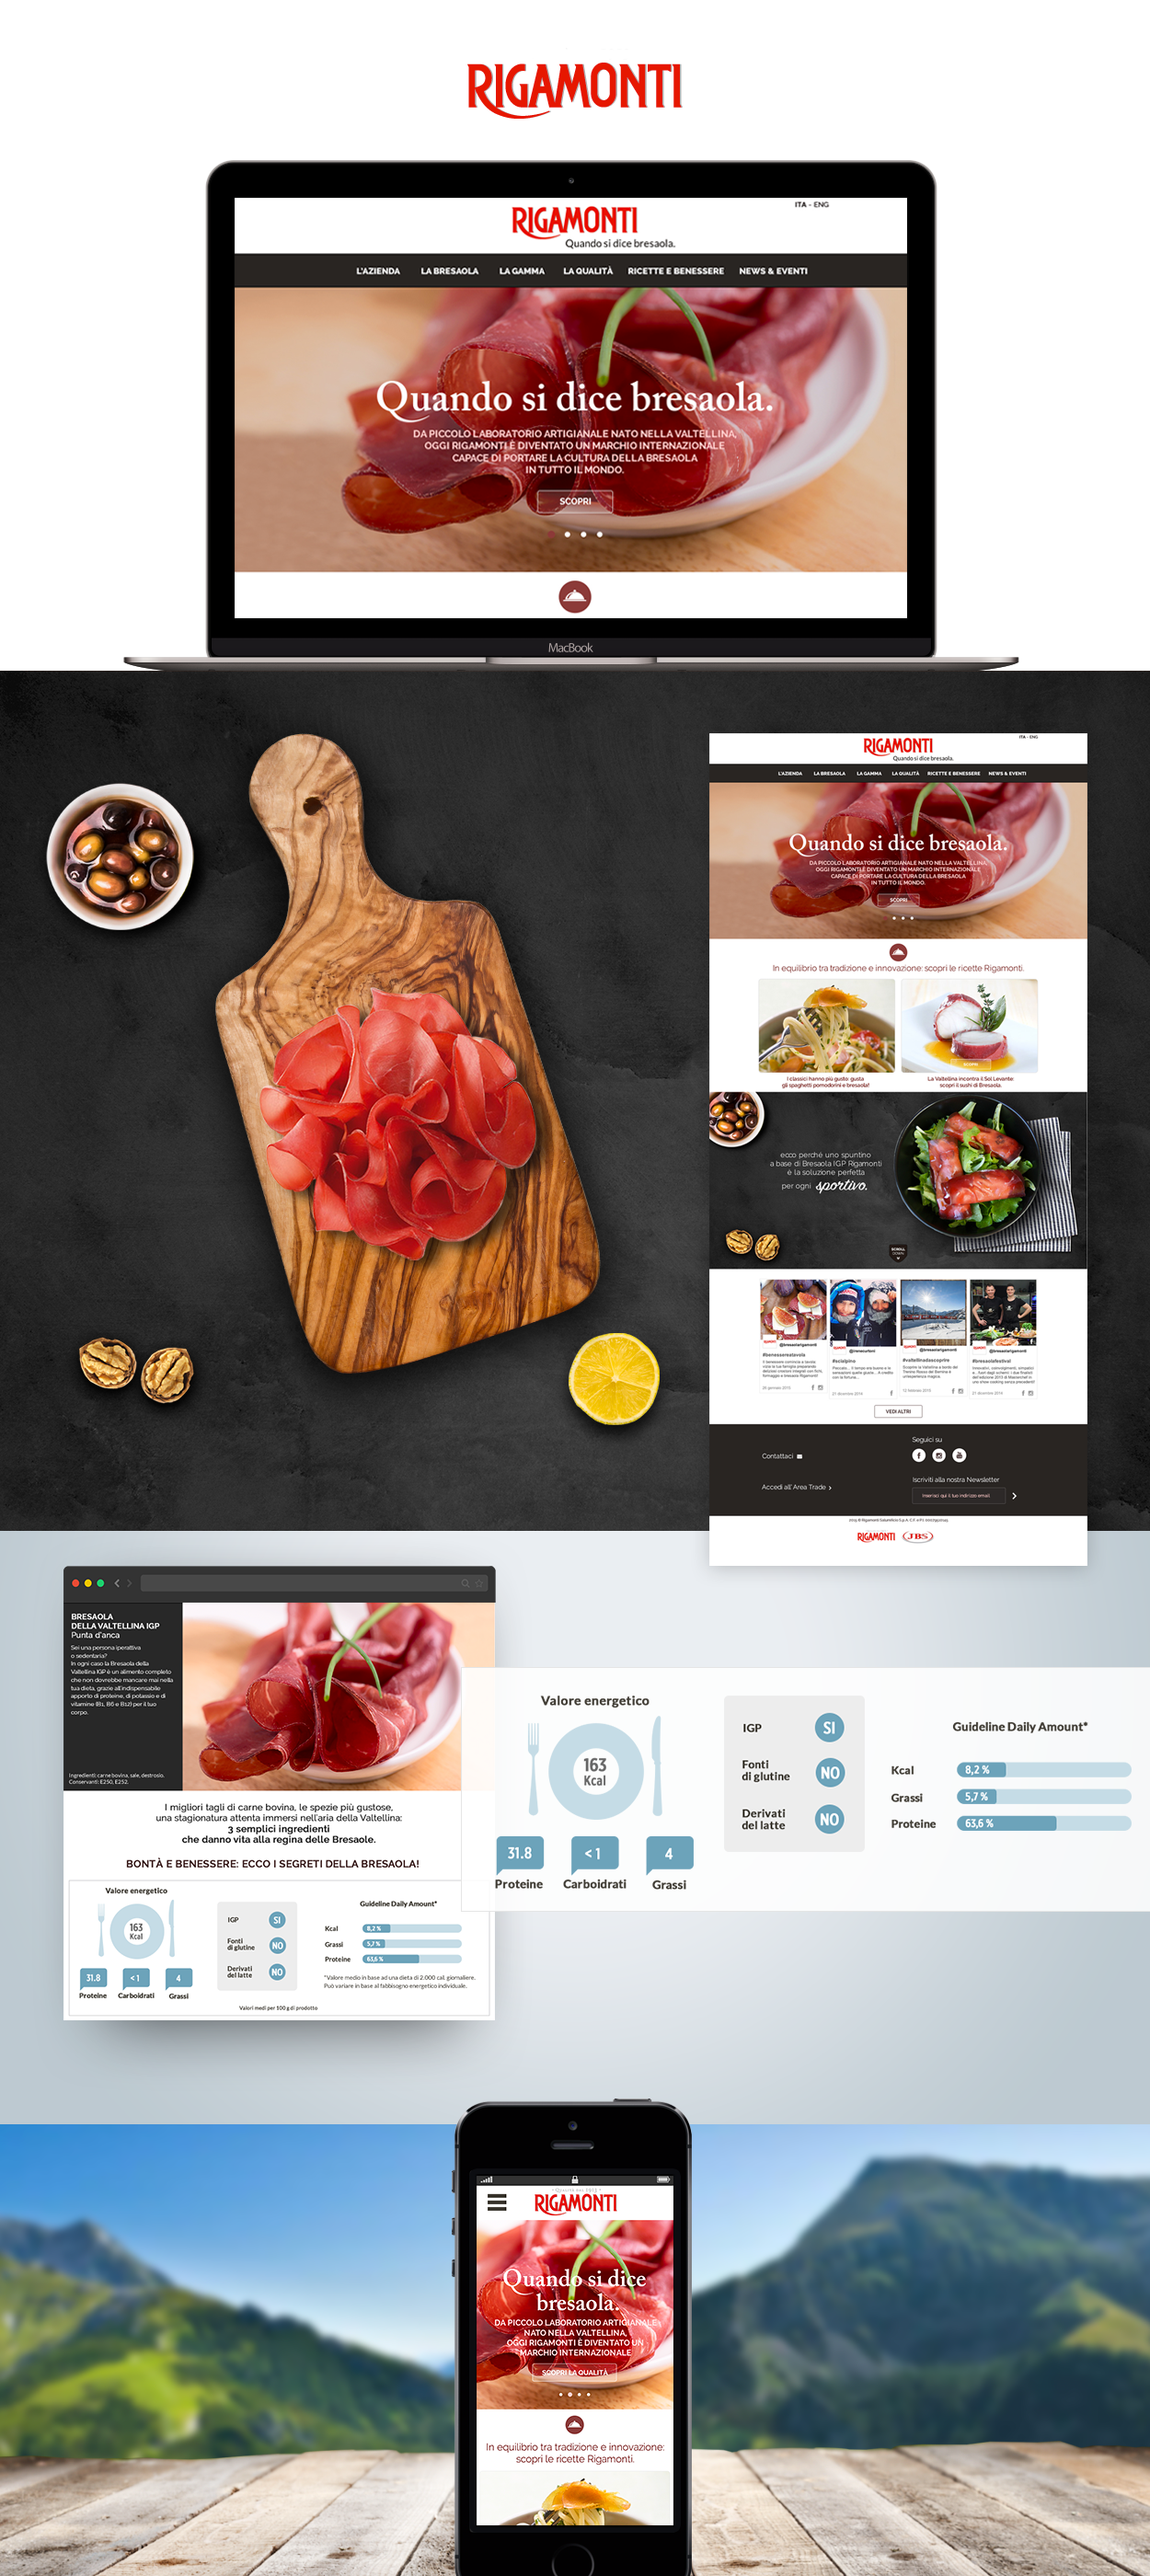
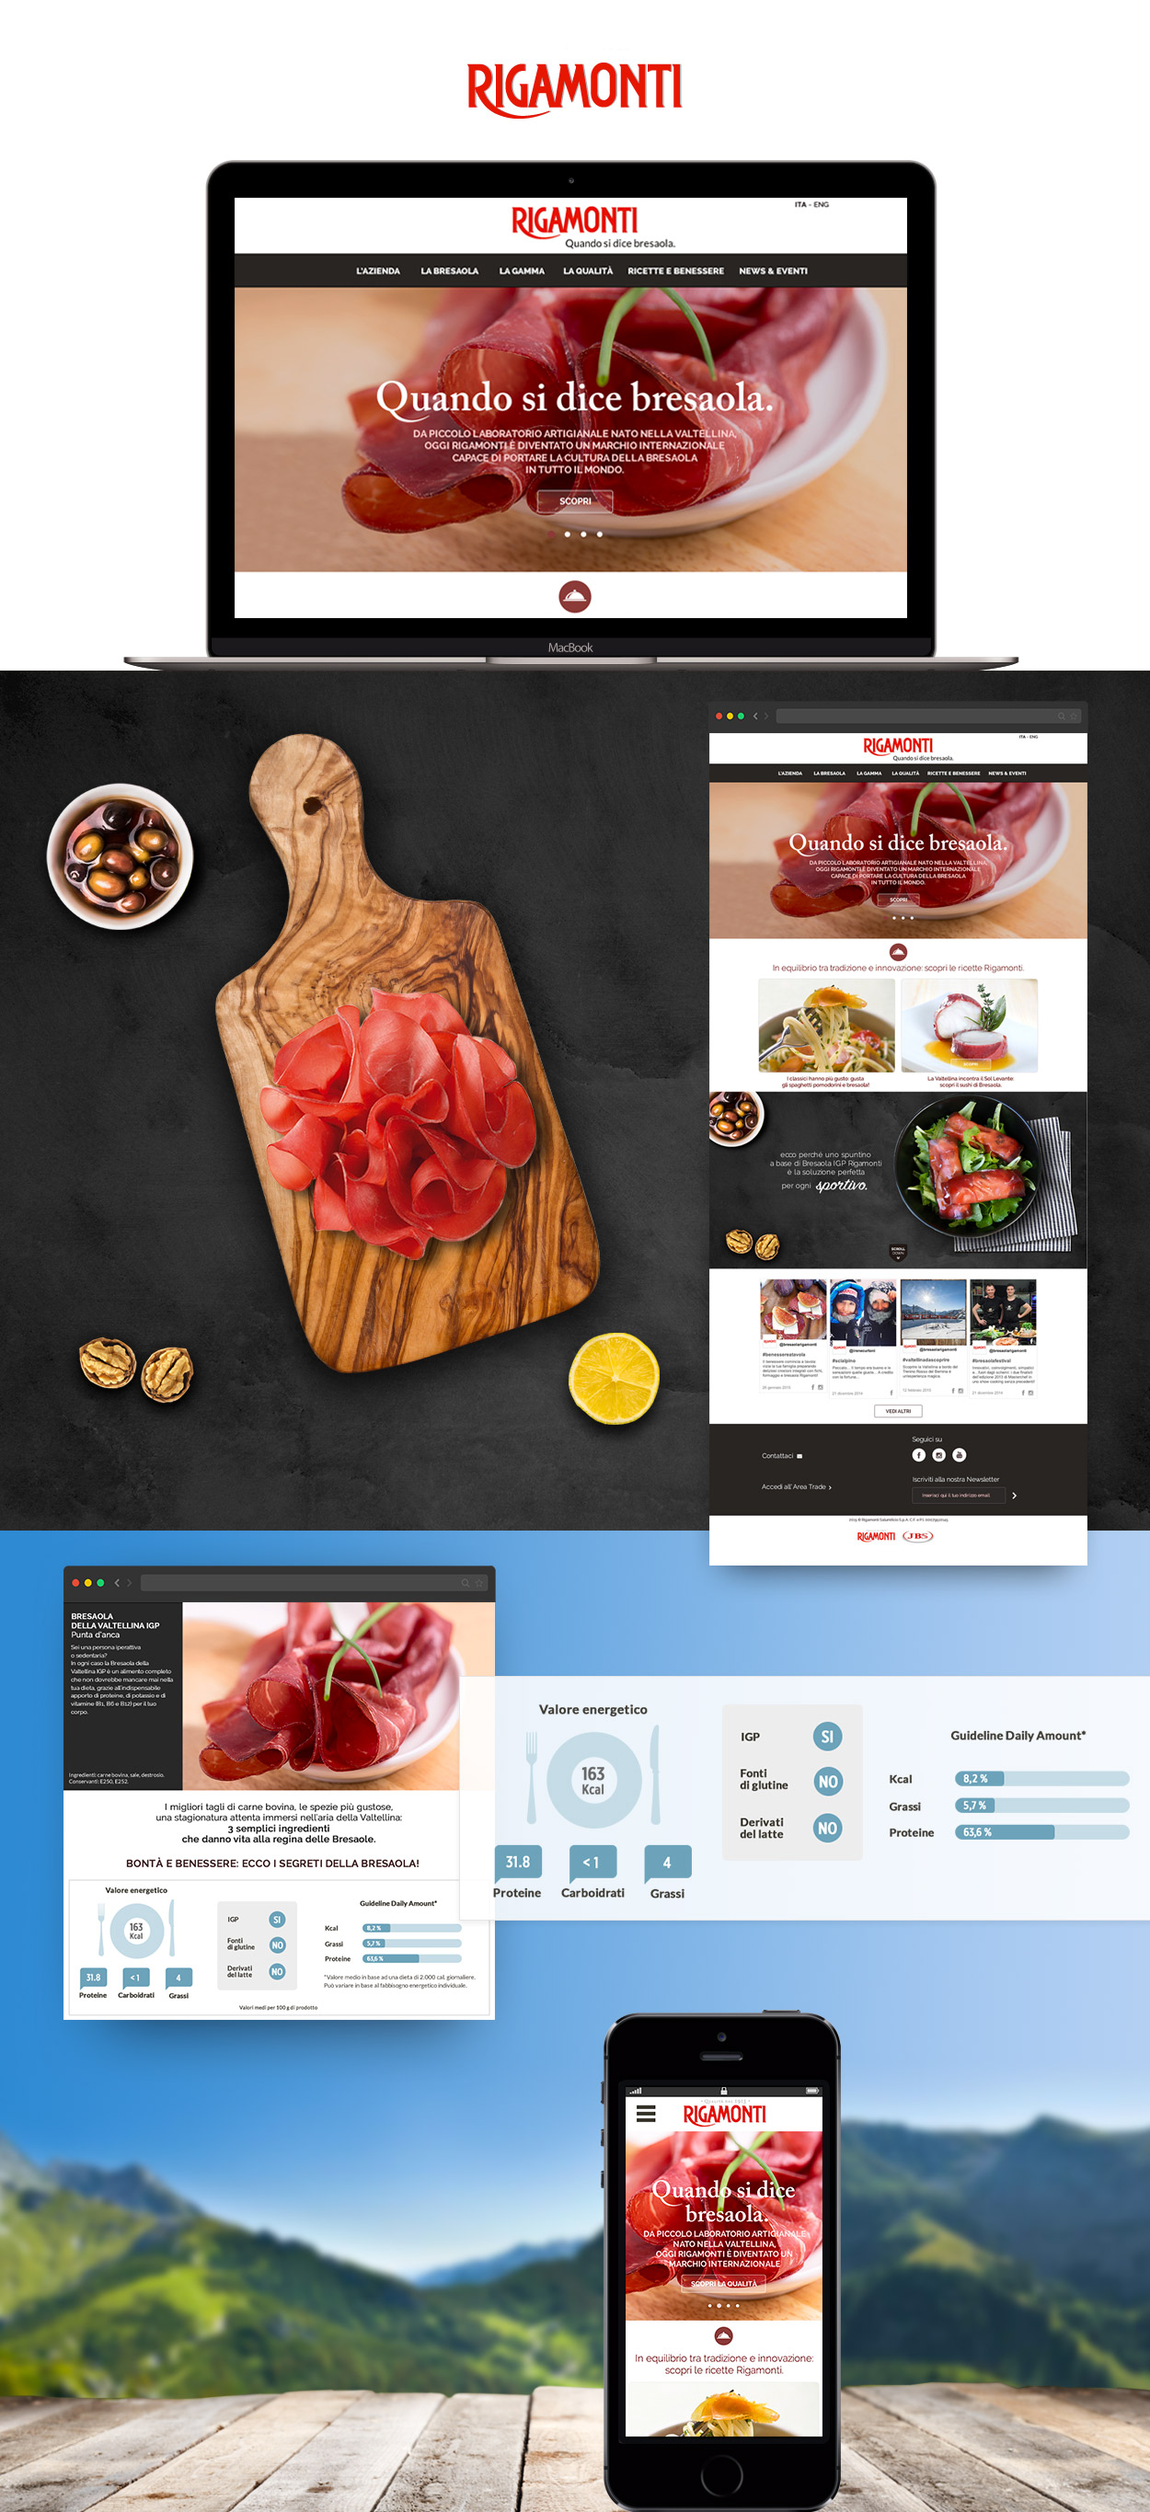
fix pag bresaola

diff --git a/public/play/portfolio-single-bresaola.html b/public/play/portfolio-single-bresaola.html
@@ -170,35 +170,10 @@
 
 				<!-- PORTFOLIO CONTENT -->
 				<div class="row">
-						<!-- PORTFOLIO slider -->
-					<div class="col-sm-12">
 
-						<div class="owl-carousel slider-images  m-b-30">
-
-							<div class="item">
-								<img src="assets/images/portfolio-single/RIGA-LAY2015-SLIDER-01.jpg" alt="" />
+							<div class="image-caption  m-b-30"><br>
+								<img class="image-border" src="assets/images/portfolio-single/portfolio-bresaola.jpg" alt="">
 							</div>
-
-							<div class="item">
-								<img src="assets/images/portfolio-single/RIGA-LAY2015-SLIDER-02.jpg" alt="" />
-							</div>
-
-							<div class="item">
-								<img src="assets/images/portfolio-single/RIGA-LAY2015-SLIDER-03.jpg" alt="" />
-							</div>
-
-							<div class="item">
-								<img src="assets/images/portfolio-single/RIGA-LAY2015-SLIDER-04.jpg" alt="" />
-							</div>
-						</div>
-						<hr class="divider m-b-30">
-					</div>
-						<!-- /PORTFOLIO slider -->
-
-						<!-- DIVIDER -->
-					<div class="image-caption  m-b-30"><br>
-						<img class="image-border" src="assets/images/portfolio-single/portfolio-bresaola.jpg" alt="">
-					</div>
 					</div>
 				<!-- /PORTFOLIO CONTENT -->
 

diff --git a/public/play/portfolio-single-energia.html b/public/play/portfolio-single-energia.html
@@ -162,7 +162,8 @@
 							<div class="col-md-8">
 								<div class="row multi-columns-row">
 									<div class="m-b-20 m-l-15">
-										<h5 class="font-alt project-details m-t-3 m-b-10"></h5>WEB ADV Campaign</h5>
+										<h5 class="font-alt project-details m-t-3 m-b-10">WEB ADV Campaign</h5>
+										
 											<p>Art direction, Concept</p>
 										</div>
 
